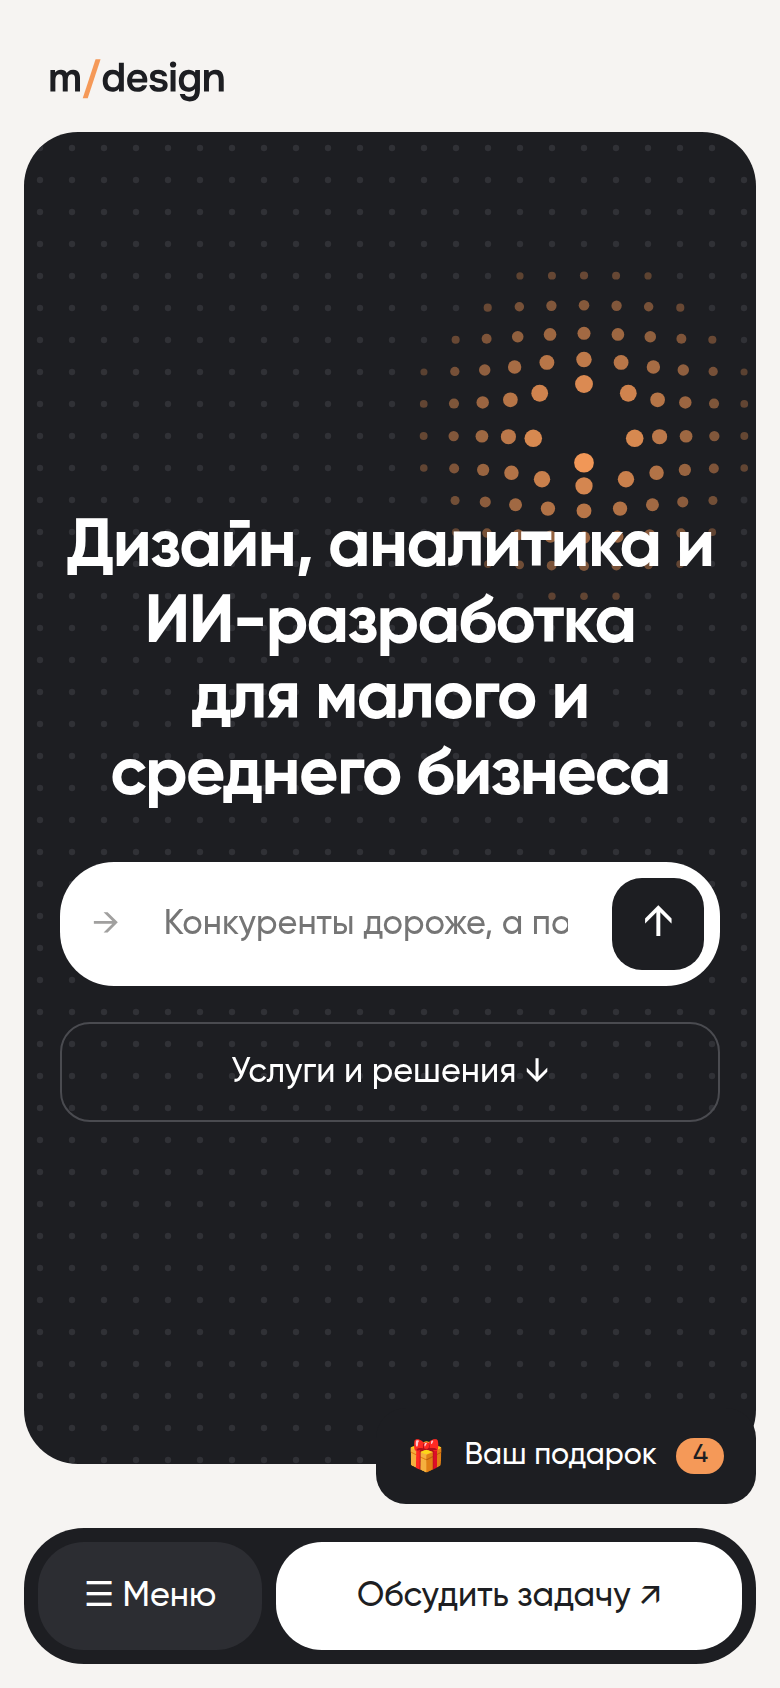
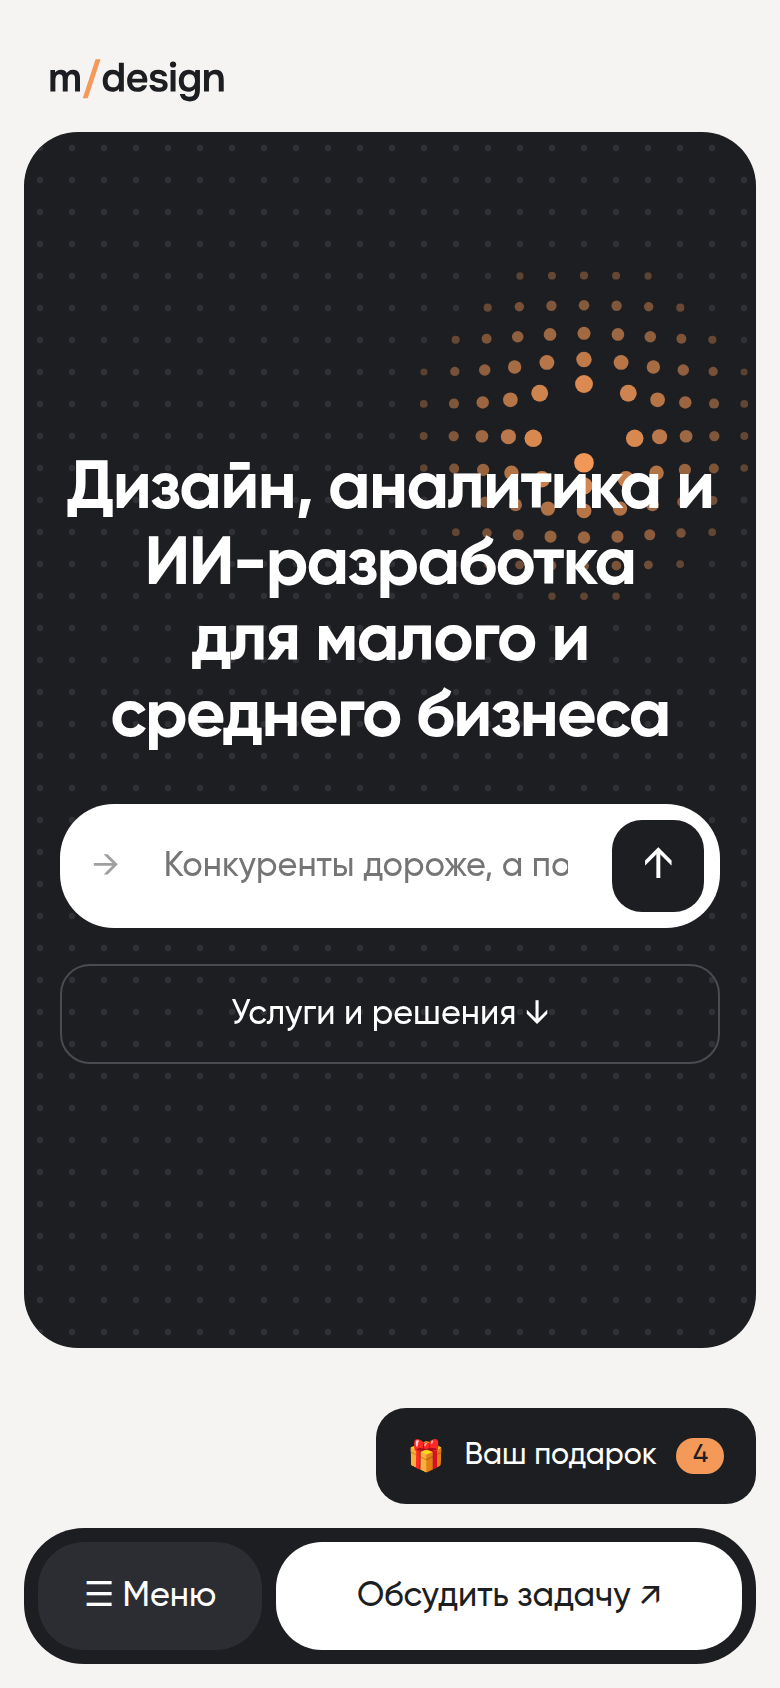
Hero мобильный: капсула заканчивается над ярлыком подарка
Claude-Session: https://claude.ai/code/session_01Ea7sNnJutX3PZfqWbVPvng

Changed region(s): [[0.0615, 0.2464, 0.9231, 0.6469], [0.0308, 0.7701, 0.9846, 0.8934]]

diff --git a/docs/site/hero-mockup/matrix-center.html b/docs/site/hero-mockup/matrix-center.html
@@ -62,7 +62,7 @@ h1 { font-size: 60px; }
   .link { width: 100%; justify-content: center; height: 50px; }
   header { background: none; margin: 0; padding: 26px 24px 0; height: auto; }
   header img { height: 26px; }
-  .v2 .cap { height: calc(100svh - 74px - 104px); min-height: 520px; margin: 14px 12px 0; }
+  .v2 .cap { height: calc(100svh - 74px - 162px); min-height: 500px; margin: 14px 12px 0; }
   .dock { display: flex; position: fixed; left: 12px; right: 12px; bottom: 12px; height: 68px; padding: 7px; gap: 7px; border-radius: 30px; background: #1D1E22; z-index: 30; }
   .dock span { display: flex; align-items: center; justify-content: center; border-radius: 23px; font: 500 17px Gilroy; }
   .dock .m { width: 112px; background: #2C2D32; color: #fff; } .dock .d { flex: 1; background: #fff; color: #1D1E22; }
